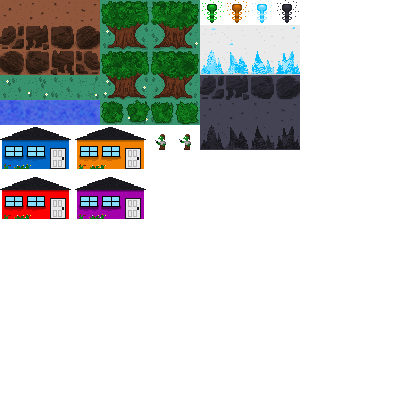
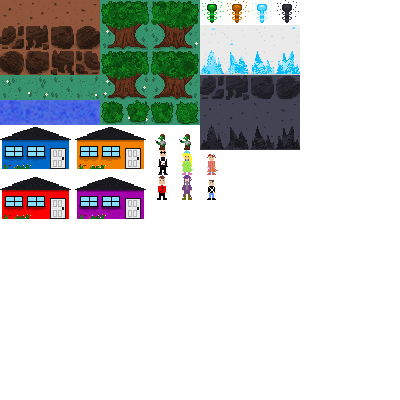
npcs

Changed region(s): [[0.45, 0.36, 0.48, 0.51], [0.39, 0.36, 0.42, 0.51], [0.51, 0.39, 0.54, 0.51]]

diff --git a/game.js b/game.js
@@ -64,7 +64,19 @@ var world;
 var tu;
 var playerDirection;
 var npc12112_dialogue = [];
+var npc4114_dialogue = [];
+var npc17113_dialogue = [];
+var npc22117_dialogue = [];
+var npc20110_dialogue = [];
+var npc27110_dialogue = [];
+var npc27123_dialogue = [];
+var npc33121_dialogue = [];
+var npc34107_dialogue = [];
+var npc43107_dialogue = [];
+var npc4123_dialogue = [];
+var npc40121_dialogue = [];
 var currentDialogue = 0;
+var currentLine;
 var currentNPC = 0;
 var dialogueEnd = true;
 var dialogueBox;
@@ -548,10 +560,10 @@ function keydownEventHandler(event) {
             if( checkNPCInteraction() )
             {
                dialogueBox = createRoundedRect( 0, 400, 500, 100, 10, "white" );
-               dialogueText = new PIXI.Text(npc12112_dialogue[currentDialogue], 
-                  {fontFamily : 'Calibri', fontSize: 25, fill : 0xFFFFFF, align : 'center'});
-               dialogueText.y = 5;
-               dialogueText.y = 400;
+               dialogueText = new PIXI.Text(currentArray[currentDialogue], 
+                  {fontFamily : 'Calibri', fontSize: 25, fill : 0xFFFFFF, align : 'left'});
+               dialogueText.x = 5;
+               dialogueText.y = 405;
                currentDialogue++;
    
                master_stage.addChild( dialogueBox );
@@ -595,14 +607,6 @@ function keydownEventHandler(event) {
             {
                iterateDialogue();
             }
-            
-            else
-            {
-               dialogue_active = false;
-               master_stage.removeChild( dialogueBox );
-               master_stage.removeChild( dialogueText );
-               currentDialogue = 0;
-            }
          }
       }
    }
@@ -612,7 +616,18 @@ function keydownEventHandler(event) {
 function checkNPCInteraction()
 {
    // NPC at 12, 112
-   return checkValidInteraction( 12, 112 );
+   return checkValidInteraction( 12, 112 ) ||
+          checkValidInteraction( 4, 114 ) ||
+          checkValidInteraction( 17, 113 ) ||
+          checkValidInteraction( 22, 117 ) ||
+          checkValidInteraction( 20, 110 ) ||
+          checkValidInteraction( 27, 110 ) ||
+          checkValidInteraction( 27, 123 ) ||
+          checkValidInteraction( 33, 121 ) ||
+          checkValidInteraction( 34, 107 ) ||
+          checkValidInteraction( 43, 107 ) ||
+          checkValidInteraction( 4, 123 ) ||
+          checkValidInteraction( 40, 121 );
 }
 
 
@@ -631,37 +646,145 @@ function checkValidInteraction( npcX, npcY )
        (playerDirection == RIGHT && 
        npcX * 25 - 25 == player.x && npcY * 25 == player.y)  )
    {
-      currentNPC = 12112;
+      currentNPC = parseInt("" + npcX + npcY);
+      getCurrentLine();
       return true;
    }
 }
 
 
-function iterateDialogue()
+function getCurrentLine()
 {
    switch( currentNPC )
    {
       case 12112:
-         dialogueText.setText(npc12112_dialogue[currentDialogue]);
-         currentDialogue++;
-         
-         if( currentDialogue == npc12112_dialogue.length )
-         {
-            dialogueEnd = true;
-         }
-         
+         currentArray = npc12112_dialogue;
          break;
+      case 4114:
+         currentArray = npc4114_dialogue;
+         break;
+      case 17113:
+         currentArray = npc17113_dialogue;
+         break;
+      case 22117:
+         currentArray = npc22117_dialogue;
+         break;
+      case 20110:
+         currentArray = npc20110_dialogue;
+         break;
+      case 27110:
+         currentArray = npc27110_dialogue;
+         break;
+      case 27123:
+         currentArray = npc27123_dialogue;
+         break;
+      case 33121:
+         currentArray = npc33121_dialogue;
+         break;
+      case 34107:
+         currentArray = npc34107_dialogue;
+         break;
+      case 43107:
+         currentArray = npc43107_dialogue;
+         break;
+      case 4123:
+         currentArray = npc4123_dialogue;
+         break;
+      case 40121:
+         currentArray = npc40121_dialogue;
+         break;  
+   }
+}
+
+
+function iterateDialogue()
+{    
+   if( currentDialogue == currentArray.length )
+   {
+      dialogueEnd = true;
+      dialogue_active = false;
+      master_stage.removeChild( dialogueBox );
+      master_stage.removeChild( dialogueText );
+      currentDialogue = 0;
+   }
+   
+   else
+   {
+      dialogueText.setText(currentArray[currentDialogue]);
+      currentDialogue++;
    }
 }
 
 
 function initialize_npc_dialogue()
-{  
-   npc12112_dialogue.push( "hey" );
-   npc12112_dialogue.push( "hello" );
-   npc12112_dialogue.push( "test" );
-   npc12112_dialogue.push( "press" );
-   npc12112_dialogue.push( "enter" );
+{  // Needs enter when longer than --------------------------------
+   npc12112_dialogue.push( "I'm the town's blacksmith, but I\n"+
+                           "graduated with a degree in literature..." );
+   npc12112_dialogue.push( "I've honed my craft over the years\n"+
+                           "though!" );
+   
+   npc4114_dialogue.push( "I am a town guard, I help keep this\n"+
+                          "place safe!" );
+   
+   npc17113_dialogue.push( "Oh someone help us! There is a great\n"+
+                           "evil that wishes to destory us all!\n" );
+   npc17113_dialogue.push( "You there, please help! There is a\n"+
+                           "monster that is going to wipe out the\n"+
+                           "world!" );
+   npc17113_dialogue.push( "She may look like a regular woman,\n"+
+                           "but she is the devil incarnate! Please\n"+
+                           "help us!" );
+   npc17113_dialogue.push( "You would be hailed a hero if she were\n"+
+                           "slain by your hand!" );
+   
+   npc22117_dialogue.push( "If I jump into the pond and swam\n"+
+                           "far away, would anyone chase after\n" +
+                           "me?" );
+   
+   npc20110_dialogue.push( "I love looking in the water and seeing\n"+
+                           "my reflection looking back!" );
+   npc20110_dialogue.push( "It's kinda creepy when she smiles back\n"+
+                           "and I'm not...");
+   
+   npc27110_dialogue.push( "My wife accused me of sneaking off to\n"+
+                           "try and slay the monster!" );
+   npc27110_dialogue.push( "All I was trying to do was surprise\n"+
+                           "her with flowers..." );
+  
+   npc27123_dialogue.push( "I am unsure how I am able to walk on\n"+
+                           "water..." );
+   npc27123_dialogue.push( "This is a precarious situation. \n"+
+                           "One second me and Billy were\n" +
+                           "walking around the pond. I tried\n" );
+   npc27123_dialogue.push( "to splash him by jumping.\n"  +
+                           "Low and behold the water did not \n" );
+   npc27123_dialogue.push( "move. I ventured slightly further\n" +
+                           "and ended up here.\n" +
+                           "Where did Billy dash off to though?\n" );
+   npc27123_dialogue.push( "In my glee of waterwalking, he\n" +
+                           "vanished... I hope the monster did\n" +
+                           "not get him!" );
+   npc27123_dialogue.push( "I must go, if the others see this\n"+
+                           "I may be tried for witchcraft.\n" +
+                           "They cannot comprehend my gift. \n" );
+   
+   npc33121_dialogue.push( "hey6" );
+   
+   npc34107_dialogue.push( "Hello citizen, have no fear, Town\n" +
+                           "Guard is here! Oh, you are going\n" +
+                           "to be a hero and slay the monster?" );
+   npc34107_dialogue.push( "Right... good luck with that." );
+   
+   npc43107_dialogue.push( "I'll say nice things at the\n" +
+                           "funeral. It's too dangerous for\n"+
+                           "anyone to survive out there." );
+   
+   npc4123_dialogue.push( "Oh my, a dashing young hero to save\n" +
+                          "us all! Thank you youngster. Now I\n"+
+                          "can tend to my crops again." );
+   
+   npc40121_dialogue.push( "hey0" );   
+   
 }
 
 
